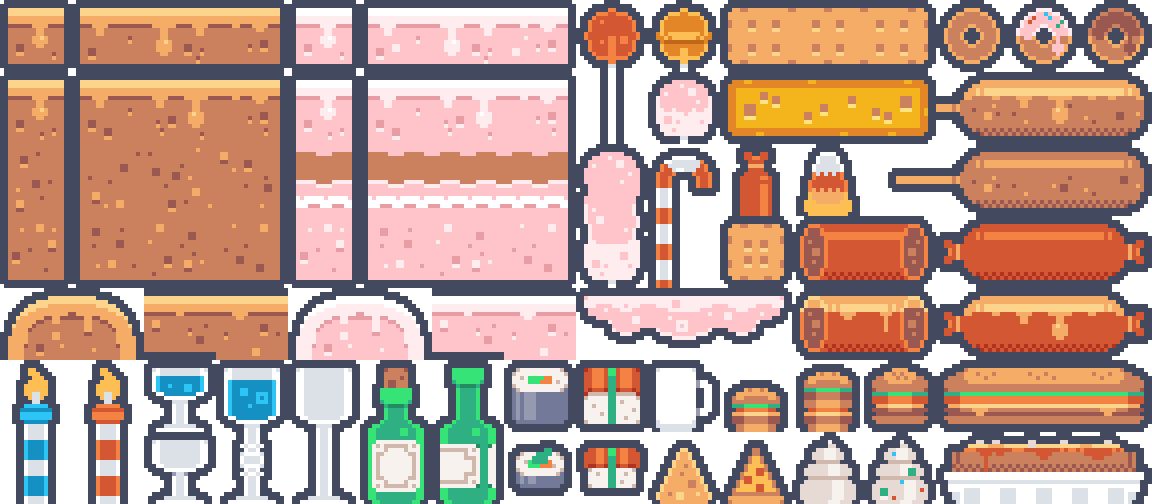
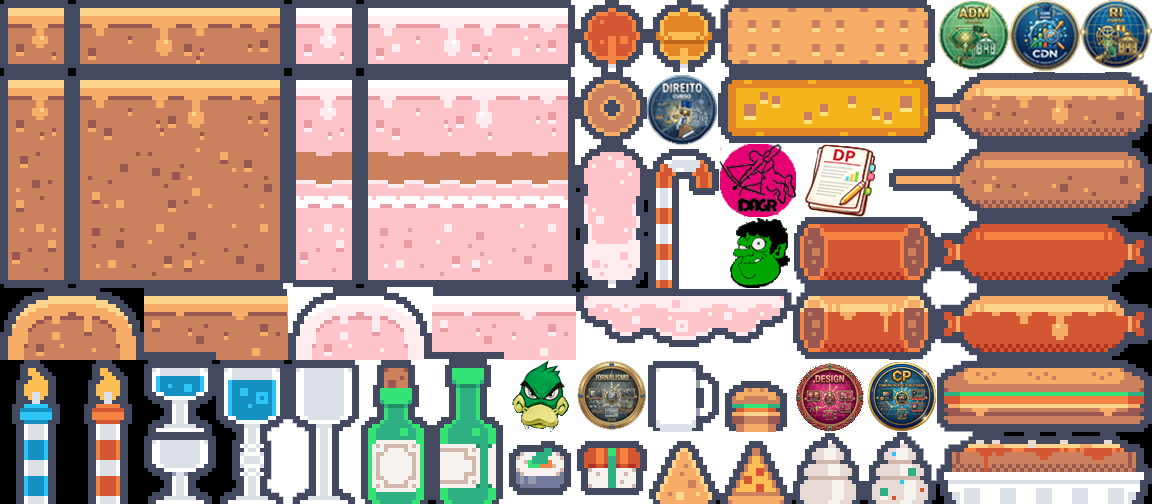
quase la 95%

diff --git a/Espm ninja 2/src/scenes/GameOver.js b/Espm ninja 2/src/scenes/GameOver.js
@@ -11,51 +11,69 @@ export class GameOver extends Phaser.Scene {
         const width = this.scale.width;
         const height = this.scale.height;
 
+        // Inverted palette relative to the start screen.
+        this.add.rectangle(width / 2, height / 2, width, height, 0xffffff).setDepth(-3);
+        this.add.rectangle(width / 2, height / 2, width * 0.86, height * 0.72, 0xf7f7f7, 0.9).setDepth(-2);
+        this.addWornPaperTexture(width, height);
+
         // "JOGADOR ELIMINADO" Text
-        this.add.text(width / 2, height / 2 - 100, 'REPROVADO!', {
-            fontFamily: 'Arial',
-            fontSize: '64px',
-            color: '#ff4444',
-            stroke: '#000000',
-            strokeThickness: 8,
+        const failText = this.add.text(width / 2, height / 2 - 110, 'REPROVADO!', {
+            fontFamily: 'Bodoni MT, Didot, Georgia, Times New Roman, serif',
+            fontSize: '90px',
+            color: '#b1003b',
+            stroke: '#ffffff',
+            strokeThickness: 2,
             fontStyle: 'bold'
         }).setOrigin(0.5);
 
+        if (failText.setLetterSpacing) {
+            failText.setLetterSpacing(5);
+        }
+
         // Final Score display (Optional but nice)
         this.add.text(width / 2, height / 2, `Score: ${this.finalScore}`, {
-            fontFamily: 'Arial',
+            fontFamily: 'Bodoni MT, Didot, Georgia, Times New Roman, serif',
             fontSize: '32px',
-            color: '#ffffff',
-            stroke: '#000000',
-            strokeThickness: 4
+            color: '#b1003b',
+            stroke: '#ffffff',
+            strokeThickness: 2,
+            fontStyle: 'bold'
         }).setOrigin(0.5);
 
         // Menu Button Rectangle
         const buttonWidth = 350;
         const buttonHeight = 80;
-        const buttonColor = 0x4CAF50;
-        const buttonHoverColor = 0x45a049;
+        const buttonColor = 0xb1003b;
+        const buttonHoverColor = 0x980033;
+
+        const buttonShadow = this.add.rectangle(width / 2, height / 2 + 107, buttonWidth, buttonHeight, 0x000000, 0.18)
+            .setOrigin(0.5);
 
         const buttonRect = this.add.rectangle(width / 2, height / 2 + 100, buttonWidth, buttonHeight, buttonColor)
+            .setStrokeStyle(4, 0x7d002a)
             .setInteractive({ useHandCursor: true })
             .setOrigin(0.5);
 
         // Menu Button Text
         const buttonText = this.add.text(width / 2, height / 2 + 100, 'VOLTAR AO MENU', {
-            fontFamily: 'Arial',
+            fontFamily: 'Bodoni MT, Didot, Georgia, Times New Roman, serif',
             fontSize: '28px',
             color: '#ffffff',
-            fontStyle: 'bold'
+            fontStyle: 'bold',
+            stroke: '#7d002a',
+            strokeThickness: 4
         }).setOrigin(0.5);
 
         // Button Interactions
         buttonRect.on('pointerover', () => {
             buttonRect.setFillStyle(buttonHoverColor);
+            buttonShadow.setAlpha(0.28);
             this.sys.canvas.style.cursor = 'pointer';
         });
 
         buttonRect.on('pointerout', () => {
             buttonRect.setFillStyle(buttonColor);
+            buttonShadow.setAlpha(0.18);
             this.sys.canvas.style.cursor = 'default';
         });
 
@@ -63,5 +81,37 @@ export class GameOver extends Phaser.Scene {
             this.sys.canvas.style.cursor = 'default';
             this.scene.start('StartScreen');
         });
+    }
+
+    addWornPaperTexture(width, height) {
+        // Soft edge darkening to mimic old, handled paper.
+        this.add.rectangle(width / 2, 26, width, 52, 0xb1003b, 0.1).setDepth(-1.95);
+        this.add.rectangle(width / 2, height - 26, width, 52, 0xb1003b, 0.1).setDepth(-1.95);
+        this.add.rectangle(26, height / 2, 52, height, 0xb1003b, 0.08).setDepth(-1.95);
+        this.add.rectangle(width - 26, height / 2, 52, height, 0xb1003b, 0.08).setDepth(-1.95);
+
+        // Uneven paper stains.
+        for (let i = 0; i < 140; i++) {
+            const x = Phaser.Math.Between(40, width - 40);
+            const y = Phaser.Math.Between(40, height - 40);
+            const r = Phaser.Math.FloatBetween(2, 8);
+            this.add.circle(x, y, r, 0xe4c6d1, Phaser.Math.FloatBetween(0.04, 0.1))
+                .setDepth(-1.86);
+        }
+
+        // Text-like faded lines to suggest old manuscript impression.
+        for (let i = 0; i < 30; i++) {
+            const x = Phaser.Math.Between(120, width - 120);
+            const y = Phaser.Math.Between(90, height - 90);
+            const len = Phaser.Math.Between(120, 340);
+            this.add.rectangle(x, y, len, Phaser.Math.Between(2, 4), 0xb1003b, Phaser.Math.FloatBetween(0.06, 0.16))
+                .setAngle(Phaser.Math.Between(-10, 10))
+                .setDepth(-1.8);
+        }
+
+        // Worn frame similar to old cover embossing.
+        this.add.rectangle(width / 2, height / 2, width * 0.9, height * 0.78)
+            .setStrokeStyle(4, 0xb1003b, 0.2)
+            .setDepth(-1.7);
     }
 }

diff --git a/Espm ninja 2/src/scenes/Game.js b/Espm ninja 2/src/scenes/Game.js
@@ -16,6 +16,7 @@ export class Game extends Phaser.Scene
 
     create ()
     {
+        this.cameras.main.setBackgroundColor('#ffffff');
         this.initVariables();
         this.initGameUi();
         // this.initAnimations();
@@ -52,27 +53,35 @@ export class Game extends Phaser.Scene
     initGameUi ()
     {
         // Create tutorial text
-        this.tutorialText = this.add.text(this.centreX, this.centreY, 'Tap to start!', {
-            fontFamily: 'Arial Black', fontSize: 42, color: '#ffffff',
-            stroke: '#000000', strokeThickness: 8,
+        this.tutorialText = this.add.text(this.centreX, this.centreY, 'Toque para iniciar', {
+            fontFamily: 'Arial Black', fontSize: 42, color: '#111111',
+            stroke: '#ffffff', strokeThickness: 8,
             align: 'center'
         })
             .setOrigin(0.5)
             .setDepth(100);
 
         // Create score text
-        this.scoreText = this.add.text(20, 20, 'Score: 0', {
-            fontFamily: 'Arial Black', fontSize: 28, color: '#ffffff',
-            stroke: '#000000', strokeThickness: 8,
+        this.scoreText = this.add.text(24, 16, '0', {
+            fontFamily: 'Arial Black', fontSize: 40, color: '#111111',
+            stroke: '#ffffff', strokeThickness: 8,
         })
             .setDepth(100);
 
-        // Create lives text
-        this.livesText = this.add.text(this.scale.width - 200, 20, 'Vidas: 3', {
-            fontFamily: 'Arial Black', fontSize: 28, color: '#ff4444',
-            stroke: '#000000', strokeThickness: 8,
-        })
-            .setDepth(100);
+        // Create hearts display
+        this.lifeIcons = [];
+
+        for (let i = 0; i < this.lives; i++)
+        {
+            const heart = this.add.text(this.scale.width - 56 - (i * 52), 18, '♥', {
+                fontFamily: 'Arial Black', fontSize: 40, color: '#ff4444',
+                stroke: '#000000', strokeThickness: 8,
+            })
+                .setOrigin(0.5, 0)
+                .setDepth(100);
+
+            this.lifeIcons.push(heart);
+        }
 
         // Create game over text
         this.gameOverText = this.add.text(this.scale.width * 0.5, this.scale.height * 0.5, 'Game Over', {
@@ -165,7 +174,7 @@ export class Game extends Phaser.Scene
             if (i > 4)
             {
                 // Draw a line between the current point and the previous point
-                this.trailGraphics.lineStyle(this.trailThickness, 0xffffff, 1);
+                this.trailGraphics.lineStyle(this.trailThickness, 0x000000, 1);
                 this.trailCurve.draw(this.trailGraphics, 64);
             }
         }
@@ -248,13 +257,19 @@ export class Game extends Phaser.Scene
     updateScore (points)
     {
         this.score += points;
-        this.scoreText.setText(`Score: ${this.score}`);
+        this.scoreText.setText(`${this.score}`);
     }
 
     loseLife ()
     {
         this.lives--;
-        this.livesText.setText(`Vidas: ${this.lives}`);
+
+        const lostHeart = this.lifeIcons[this.lives];
+
+        if (lostHeart)
+        {
+            lostHeart.setAlpha(0.18);
+        }
 
         if (this.lives <= 0) {
             this.GameOver();

diff --git a/Espm ninja 2/src/scenes/StartScreen.js b/Espm ninja 2/src/scenes/StartScreen.js
@@ -10,6 +10,7 @@ export class StartScreen extends Phaser.Scene {
         // Inspired by the provided ESPM visual reference.
         this.add.rectangle(width / 2, height / 2, width, height, 0xb1003b).setDepth(-3);
         this.add.rectangle(width / 2, height / 2, width * 0.86, height * 0.72, 0xc00045, 0.35).setDepth(-2);
+        this.addWornCoverTexture(width, height);
 
         // Title text
         const titleText = this.add.text(width / 2, height / 2 - 120, 'ESPM NINJA', {
@@ -112,5 +113,46 @@ export class StartScreen extends Phaser.Scene {
                 }
             });
         });
+    }
+
+    addWornCoverTexture(width, height) {
+        // Slightly dark border to emulate old cover wear and pressure marks.
+        this.add.rectangle(width / 2, 24, width, 48, 0x4e001b, 0.45).setDepth(-1.95);
+        this.add.rectangle(width / 2, height - 24, width, 48, 0x4e001b, 0.45).setDepth(-1.95);
+        this.add.rectangle(24, height / 2, 48, height, 0x4e001b, 0.42).setDepth(-1.95);
+        this.add.rectangle(width - 24, height / 2, 48, height, 0x4e001b, 0.42).setDepth(-1.95);
+
+        // Vertical faded streaks like worn cloth/leather cover.
+        for (let i = 0; i < 18; i++) {
+            const x = Phaser.Math.Between(80, width - 80);
+            const y = Phaser.Math.Between(90, height - 90);
+            const stripeW = Phaser.Math.Between(12, 30);
+            const stripeH = Phaser.Math.Between(180, 360);
+            this.add.rectangle(x, y, stripeW, stripeH, 0xffd0da, Phaser.Math.FloatBetween(0.03, 0.09))
+                .setAngle(Phaser.Math.Between(-8, 8))
+                .setDepth(-1.85);
+        }
+
+        // Random worn spots and scratches.
+        for (let i = 0; i < 220; i++) {
+            const x = Phaser.Math.Between(40, width - 40);
+            const y = Phaser.Math.Between(40, height - 40);
+            const dot = this.add.circle(x, y, Phaser.Math.FloatBetween(0.6, 2.3), 0xf6ccd8, Phaser.Math.FloatBetween(0.04, 0.14));
+            dot.setDepth(-1.8);
+        }
+
+        for (let i = 0; i < 28; i++) {
+            const x = Phaser.Math.Between(100, width - 100);
+            const y = Phaser.Math.Between(100, height - 100);
+            const len = Phaser.Math.Between(90, 220);
+            const scratch = this.add.rectangle(x, y, len, Phaser.Math.Between(2, 4), 0x7a002a, Phaser.Math.FloatBetween(0.14, 0.26));
+            scratch.setAngle(Phaser.Math.Between(-24, 24));
+            scratch.setDepth(-1.75);
+        }
+
+        // Inner frame to suggest an old hard-cover border.
+        this.add.rectangle(width / 2, height / 2, width * 0.9, height * 0.78)
+            .setStrokeStyle(5, 0x7f002c, 0.55)
+            .setDepth(-1.7);
     }
 }

diff --git a/Espm ninja 2/src/main.js b/Espm ninja 2/src/main.js
@@ -11,7 +11,7 @@ const config = {
     width: 1280,
     height: 720,
     parent: 'game-container',
-    backgroundColor: '#2d3436',
+    backgroundColor: '#ffffff',
     scale: {
         mode: Phaser.Scale.FIT,
         autoCenter: Phaser.Scale.CENTER_BOTH